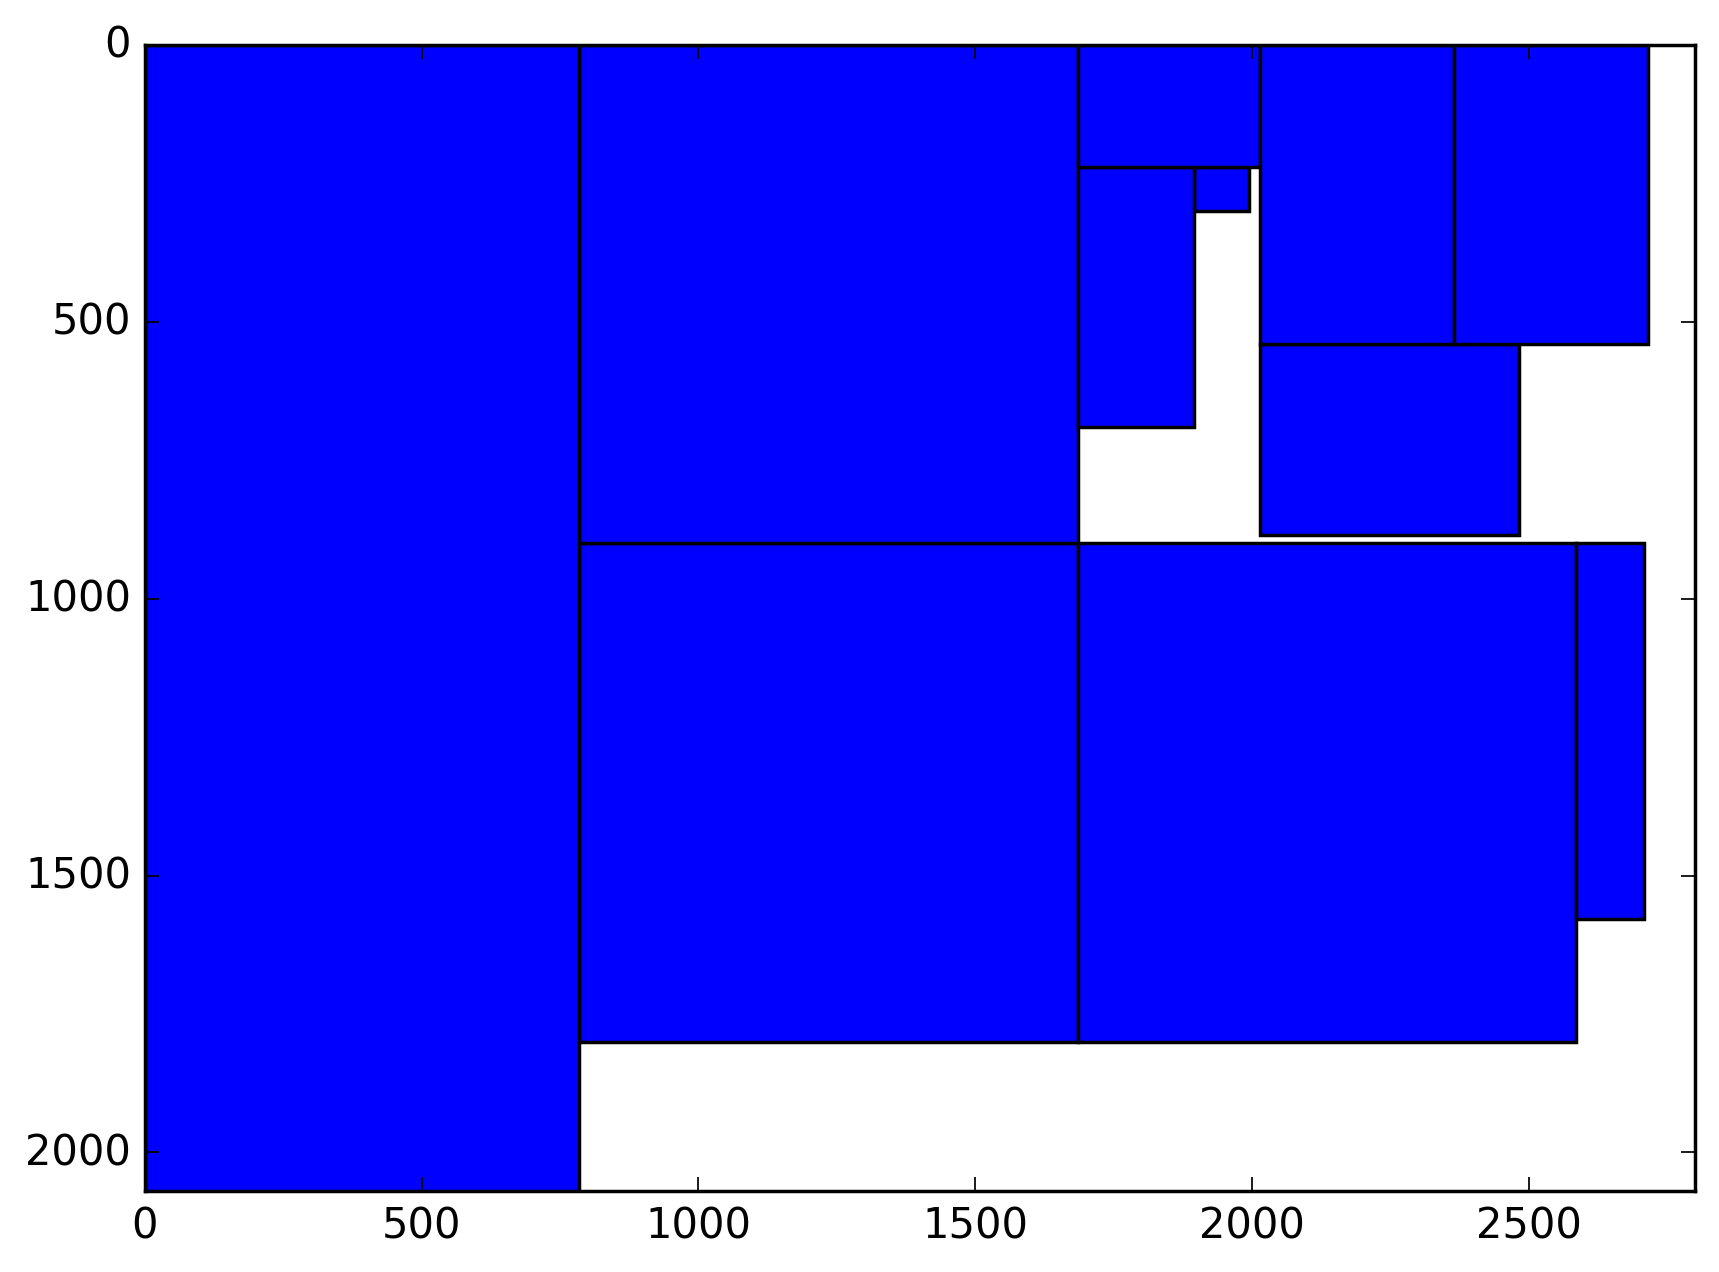
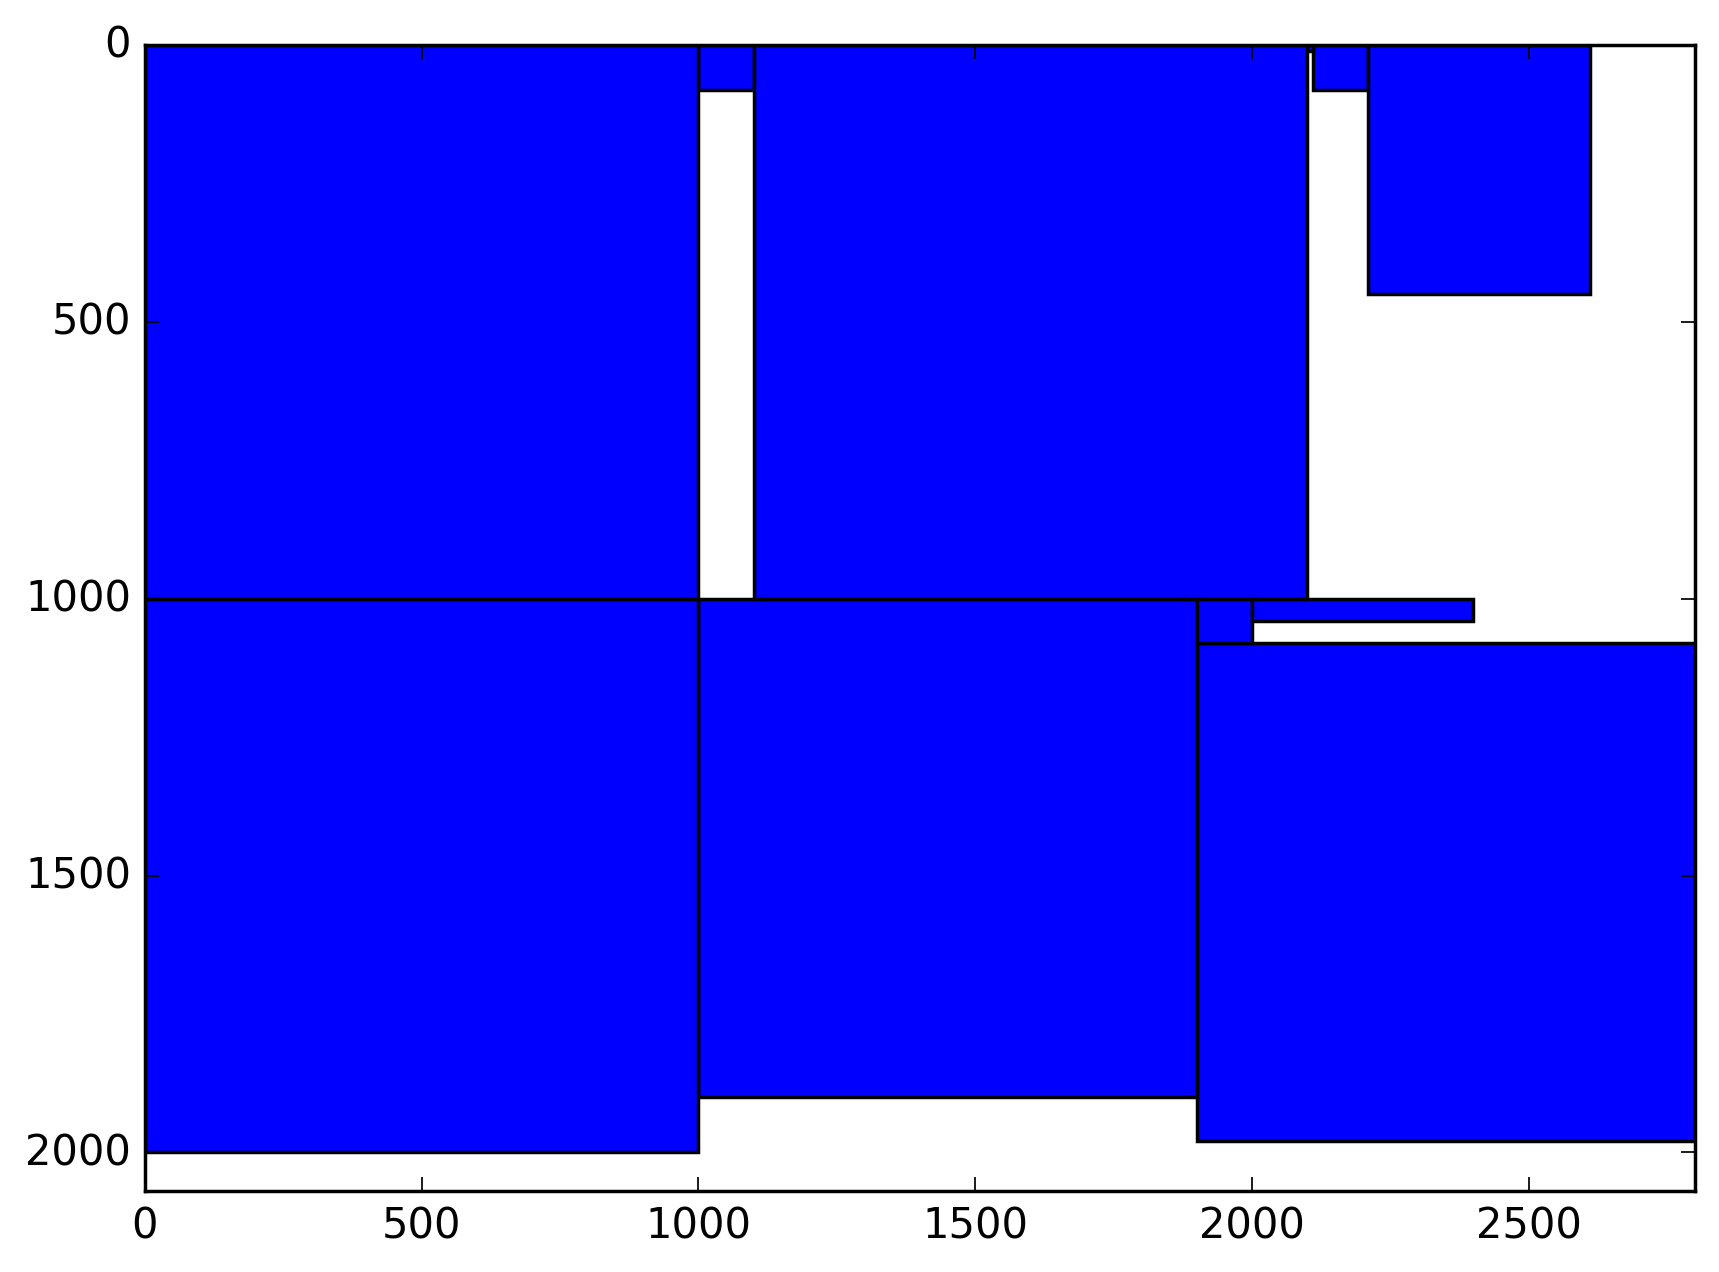
Refactor

Changed region(s): [[0.0617, 0.0307, 0.9866, 0.9505]]

diff --git a/src/main.py b/src/main.py
@@ -1,11 +1,15 @@
+from src.genetic.fit_function import fit_function
 from src.genetic.Population import Population
 import numpy as np
 import sys
 
 from src.genetic.cross_functions import order_cross
 from src.genetic.decode_functions import Decoder
-from src.solution import fit_function, get_result, get_sizes
 import matplotlib.pyplot as plt
+
+from src.utils.file_functions import get_sizes, save_rect_list_to_file
+from src.utils.plot_solution import plot_solution
+
 
 def run_algorithm(p_cross, p_mut):
 
@@ -22,7 +26,8 @@ def run_algorithm(p_cross, p_mut):
     pop = Population(pop_size, p_cross, p_mut,
                      genotype_size, decode_fun, fit_fun, cross_fun, plot=True)
 
-    for i in range(1000):
+    for i in range(300):
+        print i
         pop.calculate_fitness()
         pop.create_new_population()
         pop.crossing()
@@ -33,11 +38,20 @@ def run_algorithm(p_cross, p_mut):
     plt.plot(avg)
     plt.show()
     print pop.best.genotype
+    return pop.best.genotype
 
 def main():
 
-    run_algorithm(0.01, 0.3)
+    order = run_algorithm(p_cross=0.5, p_mut=0.1)
+    sizes = get_sizes()
+
+    decoder = Decoder(sizes)
+
+    rect_list = decoder(order)
+    save_rect_list_to_file(rect_list, order, sizes)
+
 
 
 if __name__ == "__main__":
     main()
+    plot_solution()

diff --git a/src/utils/file_functions.py b/src/utils/file_functions.py
@@ -1,0 +1,36 @@
+from src.genetic.decode_functions import Decoder
+from src.genetic.fit_function import fit_function
+
+
+def get_sizes(sizes_file='../maleplyty.txt'):
+    with open(sizes_file) as f:
+        data = f.readlines()
+    data = [x.strip() for x in data]
+    data = [x.split(' ') for x in data]
+    for i, point in enumerate(data):
+        data[i] = [float(j) for j in point]
+    return data
+
+
+def rect_to_line(rect, size):
+    if rect:
+        return '{} {} {} {} {}\n'.format(int(rect.xmax - rect.xmin),
+                                         int(rect.ymax - rect.ymin),
+                                         int(rect.xmin),
+                                         int(rect.ymin),
+                                         0)
+    else:
+        return '{} {} {} {} {}\n'.format(int(size[0]), int(size[1]), -1, -1, 0)
+
+
+def save_rect_list_to_file(rect_list, order, sizes, output_file='../out.txt'):
+    size = fit_function(rect_list)
+    print size
+    order = list(order)
+    with open(output_file, 'w') as f:
+        f.write(str(size) + '\n')
+        for i in range(len(order)):
+            f.write(rect_to_line(rect_list[order.index(i)], sizes[i]))
+
+
+

diff --git a/src/genetic/decode_functions.py b/src/genetic/decode_functions.py
@@ -1,4 +1,4 @@
-from src.solution import Rectangle, update_points_list, create_rectangle, outside_big_rect, colidate
+from src.utils.Rectangle import Rectangle, create_rectangle, outside_big_rect, collide
 
 
 class Decoder:
@@ -26,7 +26,7 @@ class Decoder:
                     collision = collision or outside_big_rect(new_rectangle)
                     for rect in rectangles:
                         if not collision and rect:
-                            collision = collision or colidate(rect, new_rectangle)
+                            collision = collision or collide(rect, new_rectangle)
                     if not collision:
                         rectangles.append(new_rectangle)
                         points_list = update_points_list(points_list, new_rectangle)
@@ -34,3 +34,10 @@ class Decoder:
             if not added:
                 rectangles.append(0)
         return rectangles
+
+
+def update_points_list(points_list, rectangle):
+    points_list[0].append((rectangle.xmax, rectangle.ymin))
+    points_list[1].append((rectangle.xmin, rectangle.ymax))
+    points_list[2].append((rectangle.xmax, rectangle.ymax))
+    return points_list

diff --git a/src/utils/Rectangle.py b/src/utils/Rectangle.py
@@ -1,0 +1,25 @@
+from collections import namedtuple
+
+from src.utils.consts import *
+
+Rectangle = namedtuple('Rectangle', 'xmin ymin xmax ymax')
+
+
+def create_rectangle(point, size):
+    return Rectangle(point[0],
+                     point[1],
+                     point[0] + size[0],
+                     point[1] + size[1])
+
+
+def collide(a, b):
+    dx = min(a.xmax, b.xmax) - max(a.xmin, b.xmin)
+    dy = min(a.ymax, b.ymax) - max(a.ymin, b.ymin)
+    if (dx > 0) and (dy > 0):
+        return True
+    else:
+        return False
+
+
+def outside_big_rect(new_rectangle):
+    return new_rectangle.xmax > XMAX or new_rectangle.ymax > YMAX

diff --git a/src/genetic/Individual.py b/src/genetic/Individual.py
@@ -12,9 +12,10 @@ class Individual:
         self.fit_val = None
 
     def mutate(self):
-        i = random.randint(0, self.genotype_size - 1)
-        j = random.randint(0, self.genotype_size - 1)
-        self.genotype[i], self.genotype[j] = self.genotype[j], self.genotype[i]
+        if self.p_mut > random.random():
+            i = random.randint(0, self.genotype_size - 1)
+            j = random.randint(0, self.genotype_size - 1)
+            self.genotype[i], self.genotype[j] = self.genotype[j], self.genotype[i]
 
     def calculate_fitness(self):
         self.fit_val = self.fit_fun(self.decoder(self.genotype))

diff --git a/src/genetic/cross_functions.py b/src/genetic/cross_functions.py
@@ -12,7 +12,9 @@ def one_point_cross(ind1, ind2):
     ind2.genotype = res2
 
 
-def order_cross(ind1, ind2):
+def order_cross(in1, in2):
+    ind1 = in1.genotype
+    ind2 = in2.genotype
     size = min(len(ind1), len(ind2))
     a, b = random.sample(xrange(size), 2)
     if a > b:
@@ -42,6 +44,5 @@ def order_cross(ind1, ind2):
 
 
 if __name__ == "__main__":
-    a = [[1, 5], [2], [555, 22 ,2 ,2], [1, 0]]
-    b = [[1, 2], [2, 2], [555, 22, 2, 2], [1, 0]]
-    print order_cross(a, b)
+
+    print order_cross(range(10), list(reversed(range(10))))

diff --git a/src/utils/plot_solution.py b/src/utils/plot_solution.py
@@ -37,11 +37,8 @@ def plot_rectangles(rectangles, x=2800, y=2070):
     fig2.savefig('rect2.png', dpi=250, bbox_inches='tight')
 
 
-def plot():
+def plot_solution():
     data = get_data()
     rects = data_to_rectangles(data)
     plot_rectangles(rects)
 
-
-if __name__ == "__main__":
-    plot()

diff --git a/src/genetic/fit_function.py b/src/genetic/fit_function.py
@@ -1,0 +1,9 @@
+def total_area(rect_list):
+    result = 0
+    for rect in rect_list:
+        if rect:
+            result += int(rect.xmax - rect.xmin) * int(rect.ymax - rect.ymin)
+    return result
+
+def fit_function(rect_list):
+    return float(total_area(rect_list))

diff --git a/src/utils/consts.py b/src/utils/consts.py
@@ -1,0 +1,2 @@
+XMAX = 2800
+YMAX = 2070
